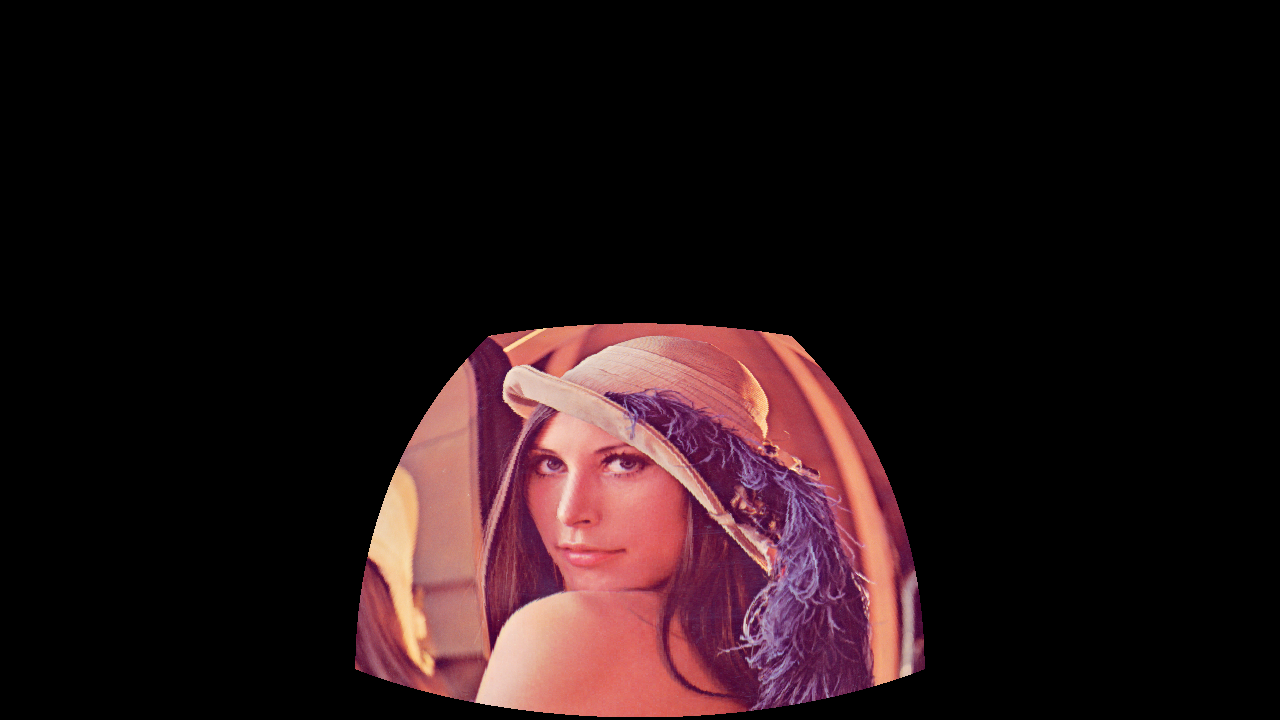
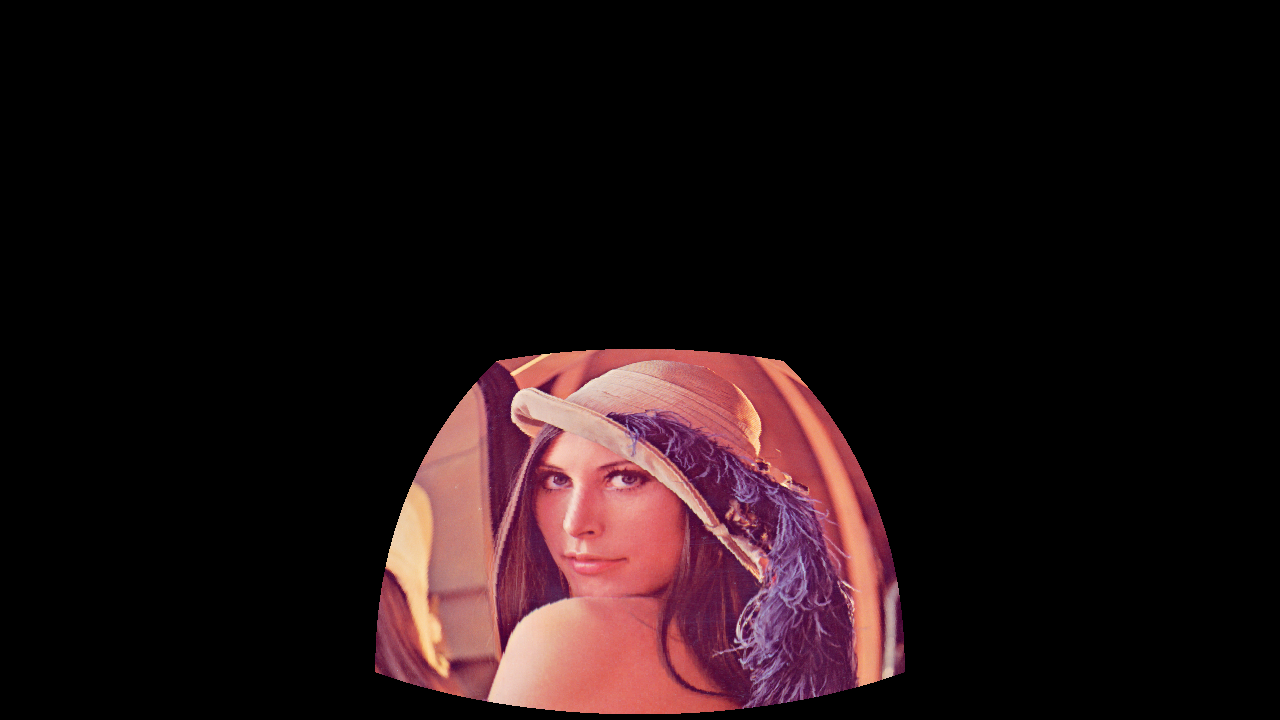
Updated using latest estimate of mirror radius.

Changed region(s): [[0.25, 0.4278, 0.75, 1.0]]

diff --git a/DomeProjection/Python/lenna_dome_projection.py b/DomeProjection/Python/lenna_dome_projection.py
@@ -25,16 +25,19 @@ else:
 input_image.show()
 
 print "Creating instance of DomeProjection Class"
-dome = DomeProjection(screen_height = 1.0,
-                      screen_width = 1.0,
-                      distance_to_screen = 0.5,
-                      image_pixel_width=512,
-                      image_pixel_height=512,
+dome = DomeProjection(screen_height = [1.0],
+                      screen_width = [1.0],
+                      distance_to_screen = [0.5],
+                      pitch = [30],
+                      yaw = [0],
+                      roll = [0],
+                      image_pixel_width=[512],
+                      image_pixel_height=[512],
                       projector_pixel_width=1280,
                       projector_pixel_height=720)
 print "Done initializing dome"
 
-output_image = dome.warp_image_for_dome(input_image)
+output_image = dome.warp_image_for_dome([input_image])
 
 output_image.show()
 output_image.save(directory + "lenna_warped.png", "PNG")
